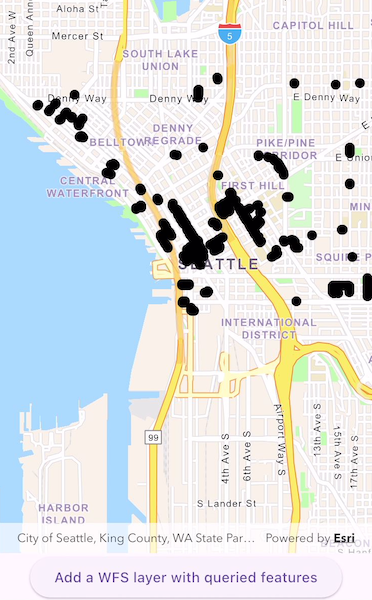
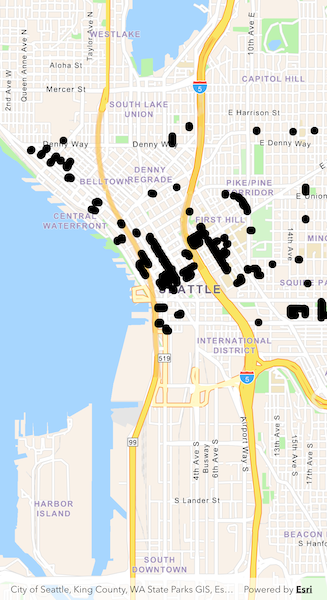
update to follow the design

diff --git a/lib/samples/show_wfs_layer_with_xml_query/show_wfs_layer_with_xml_query.dart b/lib/samples/show_wfs_layer_with_xml_query/show_wfs_layer_with_xml_query.dart
@@ -58,16 +58,6 @@ class _ShowWfsLayerWithXmlQueryState extends State<ShowWfsLayerWithXmlQuery> {
                     onMapViewReady: onMapViewReady,
                   ),
                 ),
-                Row(
-                  mainAxisAlignment: MainAxisAlignment.center,
-                  children: [
-                    ElevatedButton(
-                      onPressed: AddWfsLayerWithQueriedFeatures,
-                      child:
-                          const Text('Add a WFS layer with queried features'),
-                    ),
-                  ],
-                ),
               ],
             ),
             // Display a progress indicator and prevent interaction until state is ready.
@@ -90,15 +80,14 @@ class _ShowWfsLayerWithXmlQueryState extends State<ShowWfsLayerWithXmlQuery> {
     final map = ArcGISMap.withBasemapStyle(BasemapStyle.arcGISNavigation);
     _mapViewController.arcGISMap = map;
 
+    // Load the WFS layer with the XML query.
+    await loadWfsLayerWithXmlQuery();
+
     // Set the ready state variable to true to enable the sample UI.
     setState(() => _ready = true);
   }
 
-  void AddWfsLayerWithQueriedFeatures() async {
-    setState(() => _ready = false);
-    // Clear the operational layers
-    _mapViewController.arcGISMap?.operationalLayers.clear();
-
+  Future<void> loadWfsLayerWithXmlQuery() async {
     const wfsFeatureTableUri =
         'https://dservices2.arcgis.com/ZQgQTuoyBrtmoGdP/arcgis/services/Seattle_Downtown_Features/WFSServer?service=wfs&amp;request=getcapabilities';
 
@@ -129,7 +118,5 @@ class _ShowWfsLayerWithXmlQueryState extends State<ShowWfsLayerWithXmlQuery> {
 
     // Zoom to the full extent of the feature layer
     _mapViewController.setViewpointGeometry(featureLayer.fullExtent!);
-
-    setState(() => _ready = true);
   }
 }

diff --git a/lib/samples/show_wfs_layer_with_xml_query/README.md b/lib/samples/show_wfs_layer_with_xml_query/README.md
@@ -16,14 +16,14 @@ Run the sample and view the data loaded from the WFS feature table.
 
 1. Create a `WfsFeatureTable` and a `FeatureLayer` to visualize the table.
 2. Set the feature request mode to `ManualCache`.
-3. Call `PopulateFromServiceWithXmlAsync` to populate the table with only those features returned by the XML query.
+3. Call `populateFromServiceWithXml` to populate the table with only those features returned by the XML query.
 
 ## Relevant API
 
 * FeatureLayer
 * WfsFeatureTable
-* WfsFeatureTable.AxisOrder
-* WfsFeatureTable.PopulateFromServiceAsync
+* WfsFeatureTable.axisOrder
+* WfsFeatureTable.populateFromServiceWithXml
 
 ## About the data
 
